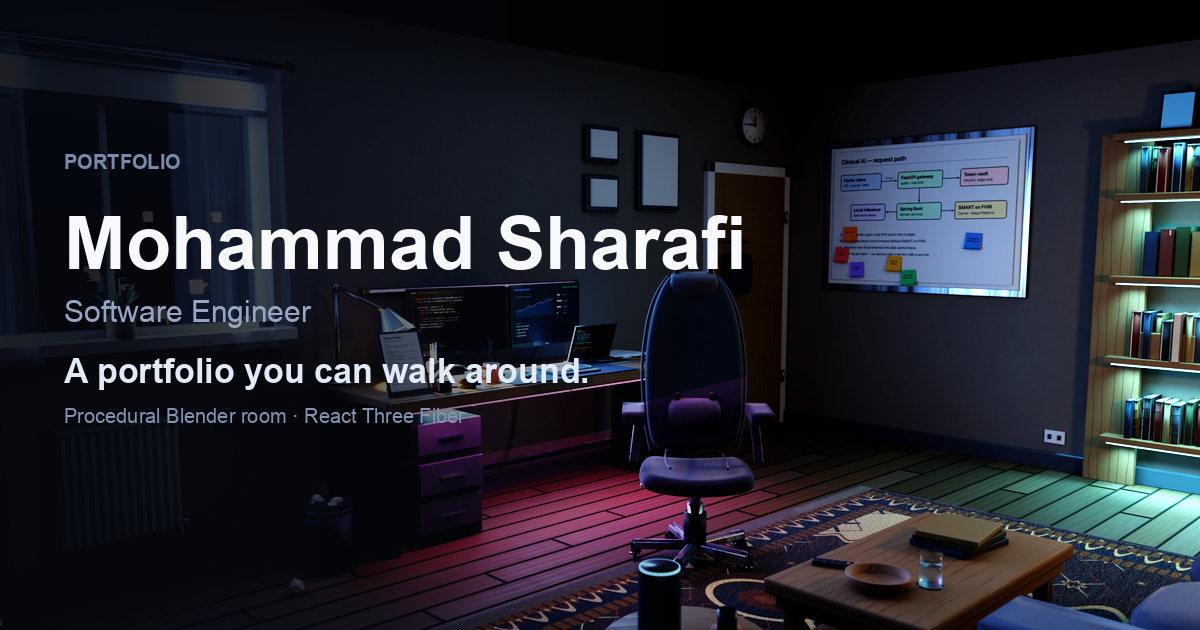
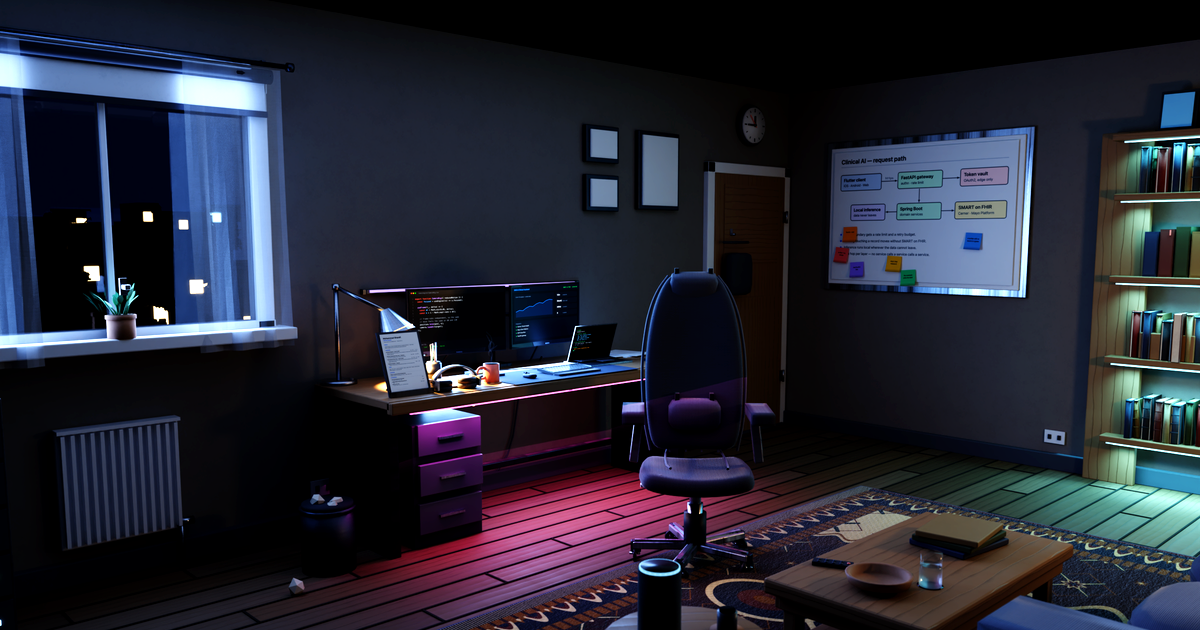
Take the words off the social card
The card carried five lines of type and an availability pill over a gradient
scrim built to keep them legible. Every one of those lines is already printed
beside the thumbnail by the platform itself, out of `og:title` and
`og:description` — so the card said the same sentences twice, and the second
copy was pixels: unselectable, untranslatable, invisible to a screen reader,
and unable to re-flow on a narrow phone.

The duplication is also what made it look like an advertisement. A photograph
of a room with a headline burned into it is a banner ad. A photograph of a room
is a picture of some work.

The scrim went with the type, since it existed only to darken the left third
behind it, and with nothing left to protect it was dimming the window for no
reason — that corner of the room is back. The brightness lift eases off too:
it was set to hold white text over lit monitors, and now only has to keep the
room from reading as a smudge at thumbnail size.

`og:image:alt` described a card with a name written on it, so it is rewritten
to describe the room that is actually in the picture.

diff --git a/index.html b/index.html
@@ -30,7 +30,7 @@
     <meta property="og:image:height" content="630" />
     <meta
       property="og:image:alt"
-      content="A dark, lamp-lit workspace rendered in 3D — desk with two monitors, a bookshelf, a guitar and a sofa — with the name Mohammad Sharafi over it"
+      content="A dark, lamp-lit workspace rendered in 3D at night — a desk with two monitors and a laptop, a whiteboard, a bookshelf, a coffee table and a window onto a lit city"
     />
     <meta property="profile:first_name" content="Mohammad" />
     <meta property="profile:last_name" content="Sharafi" />

diff --git a/scripts/make_og_image.py b/scripts/make_og_image.py
@@ -1,15 +1,18 @@
 #!/usr/bin/env python3
 """Compose the social card from a Cycles render of the room.
 
-The card is the advertisement. A link to this site is shared into a feed as a
-1200×630 rectangle, and for most people that rectangle *is* the site — it
-decides whether anyone clicks at all. The previous card was a clean text
-treatment: name, role, a line about the work, six technology chips. Everything
-true, and it described a portfolio page. It said nothing about the one thing
-that makes this link worth opening, which is that the portfolio is a room you
-can walk around.
+A link to this site is shared into a feed as a 1200×630 rectangle, and for most
+people that rectangle *is* the site — it decides whether anyone clicks at all.
+The first version of it was a clean text treatment: name, role, a line about the
+work, six technology chips. Everything true, and it described a portfolio page.
+It said nothing about the one thing that makes the link worth opening, which is
+that the portfolio is a room you can walk around.
 
-So the room is the card, and the words sit on it.
+So the room is the card, and nothing is written on it. The platform prints the
+title and the description beside the thumbnail as real text; anything painted
+into the picture as well is the same sentence twice, and the second copy cannot
+be selected, translated or read aloud. What is left is a photograph of the
+place, which is the honest advertisement for it.
 
 Composed here rather than screenshotted from the running site for the same
 reason `render_hero.py` exists at all: the browser's room is a real-time
@@ -34,53 +37,24 @@ OUT = ROOT / "public" / "og-image.png"
 
 WIDTH, HEIGHT = 1200, 630
 
-# Facebook and LinkedIn both crop toward the centre at some sizes, and X's
-# summary_large_image is a wider ratio again — so nothing that must be read is
-# allowed within this much of any edge.
-SAFE = 56
-
-NAME = "Mohammad Sharafi"
-ROLE = "Software Engineer"
-LINE = "A portfolio you can walk around."
-# Kept short enough to finish inside the scrim. The longer version ran past
-# the gradient's falloff and its last words landed on the lit monitors, which
-# is the one place on this card where light type cannot be read.
-SUB = "Procedural Blender room · React Three Fiber"
-
-
-def font(size: int, bold: bool = False):
-    """The best available system face at a size, falling back to Pillow's own.
-
-    Deliberately forgiving: a missing font must produce a plainer card, never a
-    crash and never a card with no words on it.
-    """
-    from PIL import ImageFont
-
-    candidates = (
-        [
-            "/System/Library/Fonts/SFNSDisplay-Bold.otf",
-            "/System/Library/Fonts/Supplemental/Arial Bold.ttf",
-            "/usr/share/fonts/truetype/dejavu/DejaVuSans-Bold.ttf",
-        ]
-        if bold
-        else [
-            "/System/Library/Fonts/SFNSDisplay.otf",
-            "/System/Library/Fonts/Supplemental/Arial.ttf",
-            "/usr/share/fonts/truetype/dejavu/DejaVuSans.ttf",
-        ]
-    )
-    for path in candidates:
-        if Path(path).exists():
-            try:
-                return ImageFont.truetype(path, size)
-            except OSError:
-                continue
-    return ImageFont.load_default()
+# What used to be drawn here, and is not any more: a PORTFOLIO eyebrow, the
+# name, the role, a tagline, a stack list, and an availability pill in the
+# bottom corner. Also the gradient scrim behind them, which existed only so
+# white type would hold against the lit monitors and with nothing to protect
+# was just dimming a third of the picture.
+#
+# The pill is worth its own note, because it was the worst of them. A link
+# preview is scraped once and then travels on its own — into a DM, a group
+# chat, someone's saved links — and no platform lets you edit one after it has
+# been cached. "Open to senior engineering roles" was therefore burned into an
+# image with an unbounded lifetime, and it was the last thing the card said
+# before the reader reached the link. The room says it in the contact panel
+# instead, where it is current and where someone went looking for it.
 
 
 def main() -> int:
     try:
-        from PIL import Image, ImageDraw
+        from PIL import Image
     except ImportError:
         print("Pillow is required:  pip install Pillow", file=sys.stderr)
         return 1
@@ -107,65 +81,18 @@ def main() -> int:
     top = max(0, (room.height - HEIGHT) // 2 - round(room.height * 0.04))
     card = room.crop((left, top, left + WIDTH, top + HEIGHT))
 
-    # Lifted before anything is drawn on it.
+    # The render is a night interior and physically correct, which at thumbnail
+    # size in a feed reads as a dark smudge — the card has to survive being
+    # glanced at on a phone in daylight, scrolling past.
     #
-    # The render is a night interior and physically correct, which at
-    # thumbnail size in a feed reads as a dark smudge — the card has to survive
-    # being glanced at on a phone in daylight, scrolling past. A flat veil over
-    # the top was the first attempt and did the opposite of what was wanted: it
-    # dimmed the entire photograph to buy contrast behind the text, so the room
-    # went muddy everywhere to solve a problem that only exists in the left
-    # third. Brightening the picture and scrimming only where the words go
-    # keeps the room bright and the type legible.
+    # Gentler than it was. The old numbers were set to keep white type legible
+    # over lit monitors; with no type on the card, the only job left is stopping
+    # the room going muddy at thumbnail size, and overdoing it costs the night
+    # exactly the mood that makes anyone click.
     from PIL import ImageEnhance
 
-    card = ImageEnhance.Brightness(card).enhance(1.32)
-    card = ImageEnhance.Contrast(card).enhance(1.06)
-
-    # A scrim, heaviest at the left where the words go and gone by mid-frame.
-    #
-    # Drawn as its own gradient rather than a flat overlay because a flat one
-    # dims the whole photograph to make one corner readable — the room ends up
-    # muddy everywhere to solve a problem that exists in a third of the card.
-    scrim = Image.new("L", (WIDTH, 1))
-    for x in range(WIDTH):
-        t = x / WIDTH
-        # Opaque to about 40%, then falling away fast.
-        value = 232 if t < 0.06 else max(0, int(232 * (1 - ((t - 0.06) / 0.58) ** 1.4)))
-        scrim.putpixel((x, 0), value)
-    mask = scrim.resize((WIDTH, HEIGHT))
-    card = Image.composite(Image.new("RGB", (WIDTH, HEIGHT), (6, 8, 14)), card, mask)
-
-
-
-    draw = ImageDraw.Draw(card)
-    x = SAFE + 8
-    y = 150
-
-    draw.text((x, y), "PORTFOLIO", font=font(20, bold=True), fill=(122, 138, 168))
-    y += 52
-
-    draw.text((x, y), NAME, font=font(74, bold=True), fill=(247, 249, 252))
-    y += 92
-
-    draw.text((x, y), ROLE, font=font(30), fill=(150, 166, 196))
-    y += 58
-
-    draw.text((x, y), LINE, font=font(34, bold=True), fill=(226, 234, 246))
-    y += 52
-
-    draw.text((x, y), SUB, font=font(20), fill=(132, 148, 176))
-
-    # No availability pill.
-    #
-    # It used to sit bottom left, where a reader's eye lands last, and that
-    # placement was the tell: the card is the first thing anyone sees of this
-    # work, and the last thing it said was that the author wants a job. A link
-    # preview is scraped once and then travels — into a DM, a group chat,
-    # someone's saved links — long after the status stops being true, and there
-    # is no way to edit it once a platform has cached it. The room can say this
-    # in the contact panel, where it is current and where someone has chosen to
-    # go looking.
+    card = ImageEnhance.Brightness(card).enhance(1.24)
+    card = ImageEnhance.Contrast(card).enhance(1.04)
 
     OUT.parent.mkdir(parents=True, exist_ok=True)
     card.save(OUT, optimize=True)
